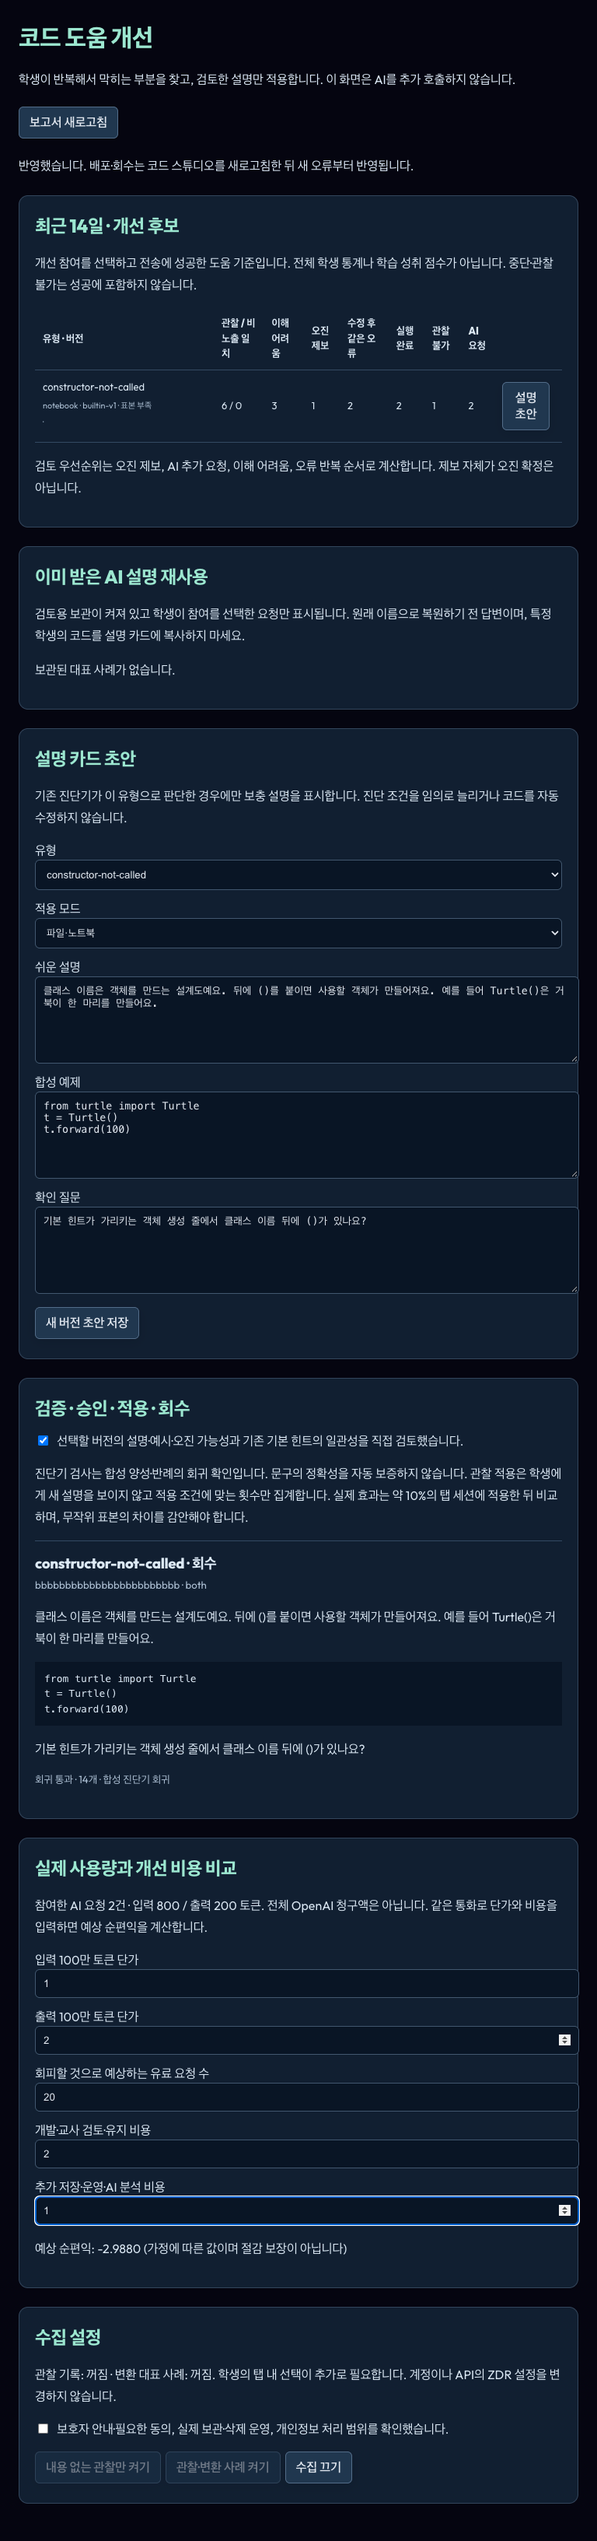
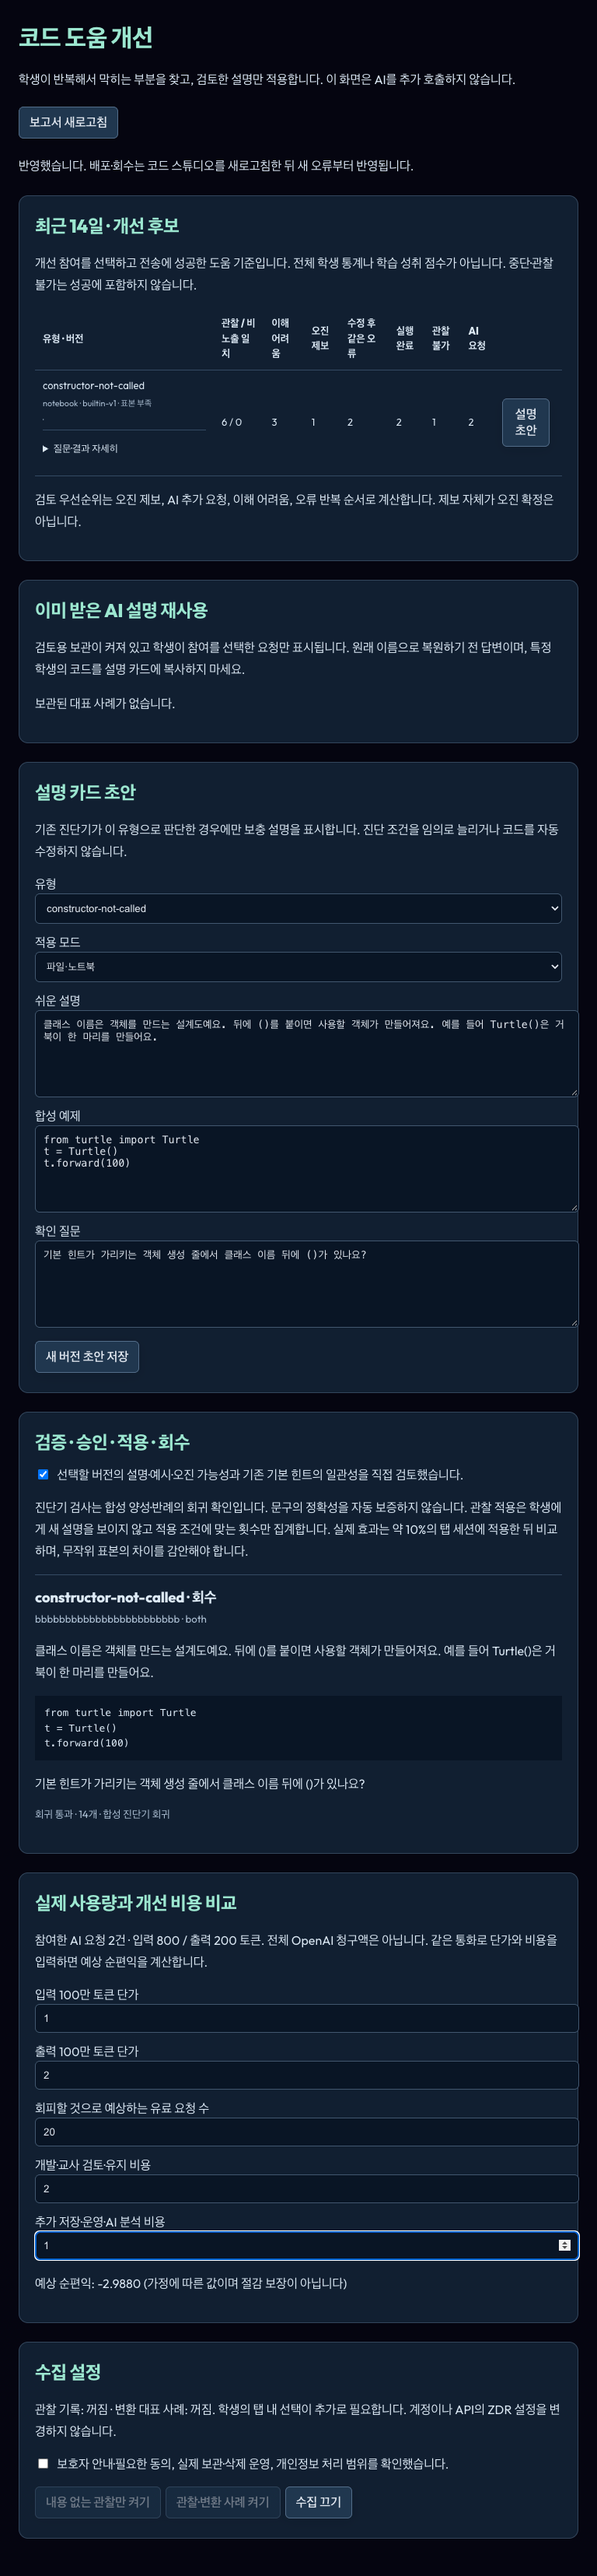
docs(studio): verify production AI activation and release controls

diff --git a/docs/collaboration/tasks/20260916-coach-production-release/STATE.md b/docs/collaboration/tasks/20260916-coach-production-release/STATE.md
@@ -1,8 +1,29 @@
 # Code Studio AI production activation
 - Goal: deploy structural coach and learning-loop implementation, activate student AI, verify authenticated Luna response, commit/push.
 - Authorization: user explicitly requested all work. ZDR remains pending; no raw-code fallback.
-- Phase: ACTIVE. Baseline 14048c99; preserve unrelated SEO/marketing/crew edits.
+- Phase: DONE (production AI enabled; optional improvement collection off). Baseline 14048c99; preserve unrelated SEO/marketing/crew edits.
 - Ownership: Codex local integration; no external relay.
 - Acceptance: scoped Git commit, production functions/rules/frontend, explicit activation, synthetic authenticated success, legacy rejection, anonymous/admin boundary and cleanup checks.
 - Learning collection remains off pending separate optional participation rollout; core AI independent.
 - Deployment caution: existing uncommitted SEO configuration was already Hosting-deployed per prior records. Preserve current Hosting build behavior rather than reverting production to old HEAD hosting rewrites. Only coach source changes enter this commit. Functions deployed from isolated committed snapshot.
+
+## Release result (2026-09-16 KST)
+- Source commit `67c3f71a`: scoped coach changes committed and pushed to origin/main. Unrelated worktree edits preserved.
+- Backend: studioErrorCoach updated; studioCoachLearningManifest/Observe/Admin/Cleanup created in asia-northeast3. Firestore rules deployed. Functions came from an isolated archive of the commit, excluding unrelated crew backend edits.
+- Hosting: production build passed. Existing already-deployed SEO/public-page changes and current Hosting rewrites preserved. Deployment succeeded; msense.me index/vendor/CSS and feature asset bytes checked against dist. Hosting therefore includes the preserved pre-existing dirty frontend baseline, not solely a clean checkout of this commit.
+- Explicit control document now enables structural v2 only, uses the configured OpenAI project, and leaves childDataReady false (ZDR pending). Limits: 10 per student/day, 300 total/day, 3000 total/month, 30-second cooldown, duplicate prevention. OPENAI_API_KEY was not read or rotated by this release verification.
+- Misleading readiness message replaced with specific disabled/protection/connection setup messages.
+- AI disclosure now effective 2026-09-16; no claim of ZDR approval, universal anonymity or blanket parental consent. Optional learning participation/case collection remains disabled and labelled planned.
+- Learning admin workbench deployed at /admin/studio-coach. Collection/case reuse is separately controlled; no learner observation was gathered during verification.
+
+## Verified
+- 47 unit/contract tests passed, targeted ESLint and syntax checks, production build.
+- Actual local Chrome/WASM file and notebook regression, private preview/alias restoration, tablet policy pages; learning admin UI synthetic transport. These are distinct from production backend checks.
+- Production authenticated synthetic student: HTTP 200, real gpt-5.6-luna four-field Korean response for omitted Turtle constructor parentheses. Repeated request cached or atomically blocked; no second upstream request.
+- Unauthenticated request denied, raw v1 payload rejected, student denied admin report, temporary admin allowed report. Temporary synthetic Auth account and user document deleted in finally. No real student code was used.
+- Daily cleanup schedule ENABLED, every 24 hours in us-central1; function region asia-northeast3. Unit check verifies expired usage deletion and retention of unexpired records while optional collection is off.
+- Manual production cleanup invocation was rejected by automatic approval review because it could delete expired live records in addition to synthetic fixtures. It was NOT executed or retried. Safer read-only scheduler verification completed; first scheduled deletion execution remains unverified. Operational verification script now contains only schedule inspection, not manual cleanup.
+- Evidence: activate.json, verify.json (synthetic advice), schedule-check.json, hosting.json, feature-assets.json, build.json. No API keys/passwords/session tokens stored.
+
+## User action
+Refresh an already-open studio tab, rerun the error, then request AI help. Old v1 clients are intentionally rejected. No raw-code fallback is enabled by future ZDR approval.

diff --git a/docs/collaboration/INDEX.md b/docs/collaboration/INDEX.md
@@ -7,10 +7,10 @@ For an existing task, read its STATE.md and actual artifacts before continuing.
 
 | ID | Goal | Phase | State file | Next action |
 |---|---|---|---|---|
-| 20260916-coach-production-release | 구조형 AI 실운영 활성화·배포·검증 | ACTIVE | [STATE](tasks/20260916-coach-production-release/STATE.md) | 합성 인증 요청 검증 후 운영 증빙 기록 |
-| 20260916-coach-learning-loop | 학생 오류·질문 누적으로 개선되는 기본 힌트 시스템 | IMPLEMENTED (local verification) | [STATE](tasks/20260916-coach-learning-loop/STATE.md) | 질문·재실행 관찰, 관리자 개선 작업대, 검토·버전 적용·회수·총비용 계산. 배포/수집 미활성화 |
-| 20260916-studio-private-coach | 코드 구조 보존·개인정보 전송 최소화 및 약관 보완 | DONE (local; activation pending) | [STATE](tasks/20260916-studio-private-coach/STATE.md) | 34검사·WASM/화면·Luna 합성 예제·빌드 통과. 운영 배포·학생 활성화 전 |
-| 20260916-studio-error-coach | Luna 단일 모델·학생 오류 힌트·비용 제한 | RELEASED (AI activation pending) | [STATE](tasks/20260916-studio-error-coach/STATE.md) | d49240c5 푸시·Hosting/함수 배포·운영 해시 확인. 학생 AI는 데이터 설정 확인 후 활성화 |
+| 20260916-coach-production-release | 구조형 AI 실운영 활성화·배포·검증 | DONE | [STATE](tasks/20260916-coach-production-release/STATE.md) | 학생 AI 활성화·실제 Luna 응답 검증, 새로고침 후 이용 |
+| 20260916-coach-learning-loop | 학생 오류·질문 누적으로 개선되는 기본 힌트 시스템 | DEPLOYED (collection off) | [STATE](tasks/20260916-coach-learning-loop/STATE.md) | 관리자 작업대·함수·규칙 배포, 선택적 관찰/사례 수집은 꺼짐 |
+| 20260916-studio-private-coach | 코드 구조 보존·개인정보 전송 최소화 및 약관 보완 | DEPLOYED / AI ACTIVE | [STATE](tasks/20260916-studio-private-coach/STATE.md) | 구조형 요청·실운영 인증 응답 확인, ZDR는 승인 대기 |
+| 20260916-studio-error-coach | Luna 단일 모델·학생 오류 힌트·비용 제한 | RELEASED / AI ACTIVE | [STATE](tasks/20260916-coach-production-release/STATE.md) | 구조형 v2·운영 설정 활성화 및 실제 응답 확인 |
 | 20260915-studio-project-import | 정시원 코드 스튜디오 프로젝트 가져오기 실패·용량 상향 | DONE (Hosting deployed) | [STATE](tasks/20260915-studio-project-import/STATE.md) | `1f0883e3` 배포·운영 해시 일치; 학생 강력 새로고침 후 재시도 |
 | 20260914-studio-responsive-preview | 패드 실행 화면 잘림·결과 가시성 | DONE (Hosting deployed) | [STATE](tasks/20260914-studio-responsive-preview/STATE.md) | 842fe2c6 푸시·운영 JS/CSS 해시 일치, 패드 실물 확인 후속 |
 | 20260914-studio-font-upload | 큰 한글 TTF 업로드 실패 | DONE (Hosting deployed) | [STATE](tasks/20260914-studio-font-upload/STATE.md) | 공식 TTF 실기·842fe2c6 배포 검증 완료, 학생 새로고침 후 업로드 |

diff --git a/docs/collaboration/tasks/20260916-studio-private-coach/OPERATIONS.md b/docs/collaboration/tasks/20260916-studio-private-coach/OPERATIONS.md
@@ -38,3 +38,6 @@ These sources do not certify this implementation as universally anonymous/compli
 - Actual model, synthetic only: live-smoke-initial.json and live-smoke.json. Three requests per round, six total; repeats cached without extra calls; no production DB writes. Initial answer leaked a field label; prompt corrected and final three replies reviewed. Final round: 2080 input + 498 output tokens. Across both rounds: 3830 input + 1031 output tokens.
 - Original WASM file/notebook/browser regression passed. Targeted UI script verifies token-only request, preview, local alias restoration and policy pages. Builds and target ESLint checked separately.
 - Live checks are a small educational sample, not a guarantee for every student's code; no real student data sent.
+
+## Production status — 2026-09-16 (supersedes rollout-pending notes)
+Released and structural student AI enabled under the user's explicit authorization. ZDR is still pending, childDataReady remains false, raw snippets stay rejected. Notices carry the current effective date; this is not a certification of legal anonymity. Internal usage expiry now has a deployed daily cleanup function and enabled schedule; no Firestore TTL claim. Actual synthetic authenticated Luna response and rejection boundaries passed. First scheduled cleanup execution has not been observed. Details: [release record](../20260916-coach-production-release/STATE.md).

diff --git a/docs/collaboration/tasks/20260916-studio-private-coach/STATE.md b/docs/collaboration/tasks/20260916-studio-private-coach/STATE.md
@@ -11,3 +11,6 @@
 - Live educational sample: six synthetic Luna requests in two rounds, no student data or production DB changes. Initial internal field-label leakage fixed in prompt and output validation. Final constructor, spelling and missing-import answers manually reviewed; repeat calls cached. Evidence: live-smoke*.json, browser-checks.json, structure-preview.png, privacy.png, terms.png.
 - Next: review deployment + student rollout under OPERATIONS.md. Production unchanged; no commit/push/deploy or readiness mutation in this task. No further user input needed for completed local implementation.
 - Limits: not a universal anonymizer or Python interpreter; literals/unknown dynamic constructs and ambiguous notebook frames withheld. Guardian authorization, internal usage expiry cleanup/TTL and any actual overseas-transfer details need operational/legal confirmation before student activation. ZDR pending; no automatic raw-code path after approval.
+
+## 2026-09-16 production release supersedes local-only status above
+Source commit 67c3f71a pushed; Hosting, structural coach, learning functions and Firestore rules deployed. Student structural AI enabled and authenticated real Luna request verified. Optional learning collection/case reuse remains off. ZDR remains pending. See [release evidence](../20260916-coach-production-release/STATE.md) for exact scope, controls and verification limitations.

diff --git a/docs/collaboration/tasks/20260916-coach-learning-loop/OPERATIONS.md b/docs/collaboration/tasks/20260916-coach-learning-loop/OPERATIONS.md
@@ -71,3 +71,6 @@
 - 빌드와 관련 ESLint를 수행한다. 합성 Firestore 테스트는 실제 Firebase emulator/배포 검증을 대체하지 않는다.
 
 출시 시 기존 구조형 코치 변경과 함께 프런트, `studioErrorCoach`, 새 함수 4개(`studioCoachLearningManifest/Observe/Admin/Cleanup`), Firestore 규칙을 배포해야 한다. 다른 작업의 미커밋 변경은 별도로 검토한다. 배포 후에도 수집은 기본 꺼짐으로 유지하며, 관리자 화면·권한·일일 삭제의 실제 배포 상태를 점검한 뒤 필요한 고지·운영 준비를 확인하고 켠다. AI 학생용 준비 플래그는 별도다. 이 문서는 배포 완료 기록이 아니다.
+
+## Production status — 2026-09-16
+Functions/rules/admin UI are deployed. Optional observation and sample collection remain off; core structural AI is enabled independently. Daily cleanup also covers studioCoachUsage (3/40/100-day expiry thresholds), regardless of the optional collection flag. Scheduler is ENABLED; manual production cleanup was not executed. See [release record](../20260916-coach-production-release/STATE.md).

diff --git a/docs/collaboration/tasks/20260916-coach-learning-loop/STATE.md b/docs/collaboration/tasks/20260916-coach-learning-loop/STATE.md
@@ -33,3 +33,6 @@
 - 실제 Firebase emulator/배포 환경·실제 관리자 계정·일일 삭제 스케줄은 미검증. 로컬 backend fixture와 실제 브라우저 실행을 구분한다.
 - 프런트·기존 코치·새 함수 4개·Firestore 규칙을 함께 배포하고 관리자 권한/스케줄을 확인한 후 운영 설정을 켠다. AI 준비/ZDR 조건은 별도이며 그대로 유지.
 - 상세 동작·상한·배포 경로: [OPERATIONS.md](OPERATIONS.md). 설계 기준: [DESIGN.md](DESIGN.md).
+
+## 2026-09-16 production release supersedes local-only status above
+Source commit 67c3f71a pushed; Hosting, structural coach, learning functions and Firestore rules deployed. Student structural AI enabled and authenticated real Luna request verified. Optional learning collection/case reuse remains off. ZDR remains pending. See [release evidence](../20260916-coach-production-release/STATE.md) for exact scope, controls and verification limitations.
